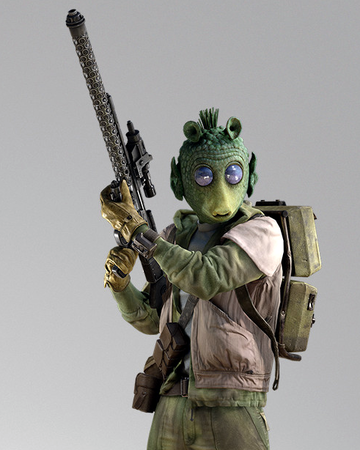
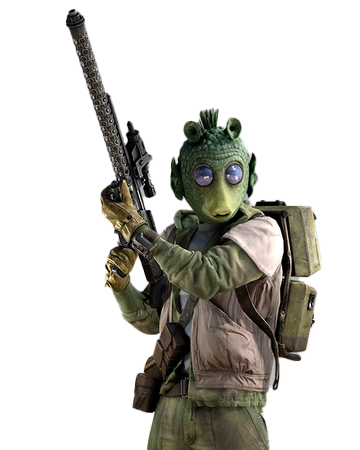
added more styling and changed images

diff --git a/src/assets/starwarsimg.js b/src/assets/starwarsimg.js
@@ -1,0 +1,71 @@
+export const data = {
+    "films": {
+        "4": require("../assets/starwarsPics/aNewHope.jpg"),
+        "5": require("../assets/starwarsPics/theEmpireStrikesBack.jpg"),
+        "6": require("../assets/starwarsPics/returnOfTheJedi.jpg"),
+        "1": require("../assets/starwarsPics/thePhantomMenace.jpg"),
+        "2": require("../assets/starwarsPics/attackOfTheClones.jpg"),
+        "3": require("../assets/starwarsPics/revengeOfTheSith.jpg"),
+    },
+    "people": {
+        "Luke Skywalker": require("../assets/starwarsPics/LukeSkywalker.png"),
+        "C-3PO": require("../assets/starwarsPics/C3PO.png"),
+        "R2-D2": require("../assets/starwarsPics/R2-D2_Droid.png"),
+        "Darth Vader": require("../assets/starwarsPics/DarthVader.png"),
+        "Leia Organa": require("../assets/starwarsPics/Leia.png"),
+        "Owen Lars": require("../assets/starwarsPics/OwenLars.png"),
+        "Beru Whitesun lars": require("../assets/starwarsPics/BeruLars.png"),
+        "R5-D4": require("../assets/starwarsPics/R5D4.png"),
+        "Biggs Darklighter": require("../assets/starwarsPics/BiggsDarklighter.png"),
+        "Obi-Wan Kenobi": require("../assets/starwarsPics/ObiWan.png")
+
+    },
+    "planets": {
+        "Tatooine": require("../assets/starwarsPics/Tatooine.png"),
+        "Alderaan": require("../assets/starwarsPics/Alderaan.jpg"),
+        "Yavin IV": require("../assets/starwarsPics/Yavin-4.png"),
+        "Hoth": require("../assets/starwarsPics/Hoth.png"),
+        "Dagobah": require("../assets/starwarsPics/Dagobah.jpg"),
+        "Bespin": require("../assets/starwarsPics/Bespin.png"),
+        "Endor": require("../assets/starwarsPics/Endor.png"),
+        "Naboo": require("../assets/starwarsPics/Naboo.png"),
+        "Coruscant": require("../assets/starwarsPics/Coruscant.jpg"),
+        "Kamino": require("../assets/starwarsPics/Kamino.jpg")
+    },
+    "species": {
+        "Human": require("../assets/starwarsPics/human.png"),
+        "Droid": require("../assets/starwarsPics/droid.png"),
+        "Wookie": require("../assets/starwarsPics/wookie.png"),
+        "Rodian": require("../assets/starwarsPics/Rodian.png"),
+        "Hutt": require("../assets/starwarsPics/hutt.png"),
+        "Yoda's species": require("../assets/starwarsPics/yoda.png"),
+        "Trandoshan": require("../assets/starwarsPics/Trandoshan.png"),
+        "Mon Calamari": require("../assets/starwarsPics/monCalamari.png"),
+        "Ewok": require("../assets/starwarsPics/ewok.png"),
+        "Sullustan": require("../assets/starwarsPics/Sullustan.png")
+    },
+    "starships": {
+        "CR90 corvette": require("../assets/starwarsPics/cr90.png"),
+        "Star Destroyer": require("../assets/starwarsPics/stardestroyer.png"),
+        "Sentinel-class landing craft": require("../assets/starwarsPics/Sentinel.png"),
+        "Death Star": require("../assets/starwarsPics/deathStar.png"),
+        "Millennium Falcon": require("../assets/starwarsPics/milleniumFalcon.png"),
+        "Y-wing": require("../assets/starwarsPics/Y-Wing.png"),
+        "X-wing": require("../assets/starwarsPics/X-wing.png"),
+        "TIE Advanced x1": require("../assets/starwarsPics/tieX1.png"),
+        "Executor": require("../assets/starwarsPics/Executor.png"),
+        "Rebel transport": require("../assets/starwarsPics/rebelTransport.png")
+    },
+    "vehicles": {
+        "Sand Crawler": require("../assets/starwarsPics/Sandcrawler.png"),
+        "T-16 skyhopper": require("../assets/starwarsPics/T16skyhopper.png"),
+        "X-34 landspeeder": require("../assets/starwarsPics/x34.png"),
+        "TIE/LN starfighter": require("../assets/starwarsPics/tieLn.png"),
+        "Snowspeeder": require("../assets/starwarsPics/snowspeeder.png"),
+        "TIE bomber": require("../assets/starwarsPics/TIE_Bomber.png"),
+        "AT-AT": require("../assets/starwarsPics/ATAT.png"),
+        "AT-ST": require("../assets/starwarsPics/atst.png"),
+        "Storm IV Twin-Pod cloud car": require("../assets/starwarsPics/Cloud-car-v2.png"),
+        "Sail barge": require("../assets/starwarsPics/sailBarge.png")
+    }
+}

diff --git a/src/components/films.js b/src/components/films.js
@@ -1,20 +1,15 @@
 import React, { useState, useEffect } from "react";
-import data from "../assets/starwarsimg.json"
+import {data} from "../assets/starwarsimg"
 
 const Films = () => {
     const [error, setError] = useState(null);
     const [isLoaded, setIsLoaded] = useState(false);
-    const [isLoadedImg, setIsLoadedImg] = useState(false);
     const [items, setItems] = useState([]);
-    const [imgItems, setImgItems] = useState([]);
-    const [imageURL, setImageURL] = useState(null)
 
     const getImageLink = (idVal) => {
         let arr = data.films
-        
-        console.log(arr[idVal])
         return (
-            <img src={arr[idVal]}></img>
+            <img src={arr[idVal].default}></img>
         )
     }
 
@@ -46,10 +41,9 @@ const Films = () => {
                 {items.results && items.results.map((item, index) => {
                 return (
                     <div className="tileContent">
-                        <h1 key={index}>{item.title}</h1>
+                        {getImageLink(item.episode_id)}
                         <div className="content">
-                            {/* {getImageLink(item.episode_id)} */}
-                            <img src={"./assets/starwarsPics/ATAT.jpg"}></img>
+                            <h1 key={index}>{item.title}</h1>
                             <p>Producer: {item.producer}</p>
                             <p>Release Date: {item.release_date}</p>
                             <p>Episode ID: {item.episode_id}</p>

diff --git a/src/components/species.js b/src/components/species.js
@@ -1,9 +1,17 @@
 import React, { useState, useEffect } from "react";
+import {data} from "../assets/starwarsimg"
 
 const Species = () => {
     const [error, setError] = useState(null);
     const [isLoaded, setIsLoaded] = useState(false);
     const [items, setItems] = useState([]);
+
+    const getImageLink = (idVal) => {
+        let arr = data.species
+        return (
+            <img src={arr[idVal].default}></img>
+        )
+    }
 
     useEffect(() => {
         fetch("https://swapi.dev/api/species/")
@@ -32,8 +40,9 @@ const Species = () => {
                 {items.results && items.results.map((item, index) => {
                 return (
                     <div className="tileContent">
-                        <h1 key={index}>{item.name}</h1>
+                        {getImageLink(item.name)}
                         <div className="content">
+                            <h1 key={index}>{item.name}</h1>
                             <p>Classification: {item.classification}</p>
                             <p>Average Lifespan: {item.average_lifespan} years</p>
                             <p>Designation: {item.designation}</p>

diff --git a/src/components/vehicles.js b/src/components/vehicles.js
@@ -1,9 +1,17 @@
 import React, { useState, useEffect } from "react";
+import {data} from "../assets/starwarsimg"
 
 const Vehicles = () => {
     const [error, setError] = useState(null);
     const [isLoaded, setIsLoaded] = useState(false);
     const [items, setItems] = useState([]);
+
+    const getImageLink = (idVal) => {
+        let arr = data.vehicles
+        return (
+            <img src={arr[idVal].default}></img>
+        )
+    }
 
     useEffect(() => {
         fetch("https://swapi.dev/api/vehicles/")
@@ -32,8 +40,9 @@ const Vehicles = () => {
                 {items.results && items.results.map((item, index) => {
                 return (
                     <div className="tileContent">
-                        <h1 key={index}>{item.name}</h1>
                         <div className="content">
+                            {getImageLink(item.name)}
+                            <h1 key={index}>{item.name}</h1>
                             <p>Model: {item.model}</p>
                             <p>Crew: {item.crew}</p>
                             <p>Max Speed: {item.max_atmosphering_speed}</p>

diff --git a/src/components/starships.js b/src/components/starships.js
@@ -1,9 +1,17 @@
 import React, { useState, useEffect } from "react";
+import {data} from "../assets/starwarsimg"
 
 const Starships = () => {
     const [error, setError] = useState(null);
     const [isLoaded, setIsLoaded] = useState(false);
     const [items, setItems] = useState([]);
+
+    const getImageLink = (idVal) => {
+        let arr = data.starships
+        return (
+            <img src={arr[idVal].default}></img>
+        )
+    }
 
     useEffect(() => {
         fetch("https://swapi.dev/api/starships/")
@@ -32,8 +40,9 @@ const Starships = () => {
                 {items.results && items.results.map((item, index) => {
                 return (
                     <div className="tileContent">
-                        <h1 key={index}>{item.name}</h1>
                         <div className="content">
+                            {getImageLink(item.name)}
+                         <h1 key={index}>{item.name}</h1>
                             <p>Model: {item.model}</p>
                             <p>Crew: {item.crew}</p>
                             <p>Cargo Capacity: {item.cargo_capacity}</p>

diff --git a/src/components/planets.js b/src/components/planets.js
@@ -1,9 +1,17 @@
 import React, { useState, useEffect } from "react";
+import {data} from "../assets/starwarsimg"
 
 const Planets = () => {
     const [error, setError] = useState(null);
     const [isLoaded, setIsLoaded] = useState(false);
     const [items, setItems] = useState([]);
+
+    const getImageLink = (idVal) => {
+        let arr = data.planets
+        return (
+            <img src={arr[idVal].default}></img>
+        )
+    }
 
     useEffect(() => {
         fetch("https://swapi.dev/api/planets/")
@@ -32,8 +40,9 @@ const Planets = () => {
                 {items.results && items.results.map((item, index) => {
                 return (
                     <div className="tileContent">
-                        <h1 key={index}>{item.name}</h1>
+                        {getImageLink(item.name)}
                         <div className="content">
+                            <h1 key={index}>{item.name}</h1>
                             <p>Climate: {item.climate}</p>
                             <p>Gravity: {item.gravity}</p>
                             <p>Population: {item.population}</p>

diff --git a/src/components/people.js b/src/components/people.js
@@ -1,9 +1,17 @@
 import React, { useState, useEffect } from "react";
+import {data} from "../assets/starwarsimg"
 
 const People = () => {
     const [error, setError] = useState(null);
     const [isLoaded, setIsLoaded] = useState(false);
     const [items, setItems] = useState([]);
+
+    const getImageLink = (idVal) => {
+        let arr = data.people
+        return (
+            <img src={arr[idVal].default}></img>
+        )
+    }
 
     useEffect(() => {
         fetch("https://swapi.dev/api/people/")
@@ -32,8 +40,9 @@ const People = () => {
                 {items.results && items.results.map((item, index) => {
                 return (
                     <div className="tileContent">
-                        <h1 key={index}>{item.name}</h1>
+                        {getImageLink(item.name)}
                         <div className="content">
+                            <h1 key={index}>{item.name}</h1>
                             <p>Birth Year: {item.birth_year}</p>
                             <p>Gender: {item.gender}</p>
                             <p>Height: {item.height}</p>

diff --git a/src/App.css b/src/App.css
@@ -3,11 +3,6 @@
   margin: 0;
 }
 
-@font-face{
-  font-family: 'Star Jedi';
-  src: url(./StarJedi-DGRW.ttf) format('truetype');
-}
-
 body {
   width: 100vw;
   display: flex;
@@ -15,7 +10,7 @@ body {
   overflow-x: hidden;
   background-image: url(./assets/star-wars-background.jpg);
   color: #FFE81F;
-  font-family: 'Star Jedi', arial;
+  font-family: arial;
 }
 
 nav {
@@ -97,19 +92,24 @@ a {
   width: 100%;
   flex-wrap: wrap;
   justify-content: center;
+  margin: 20px;
 }
 
 .tileContent {
   display: flex;
-  flex-direction: column;
+  flex-direction: row;
   width: 45%;
-  justify-content: center;
+  justify-content: flex-start;
   align-items: flex-start;
-  margin: 20px;
+  padding: 20px;
 }
 
 .tileContent h1 {
   font-style: italic;
+}
+
+.content{
+  padding: 20px;
 }
 
 .homeContent {
@@ -119,4 +119,8 @@ a {
 .homeContent p {
   padding: 4px;
   line-height: 1.5rem;
+}
+
+img {
+  height: 200px;
 }
